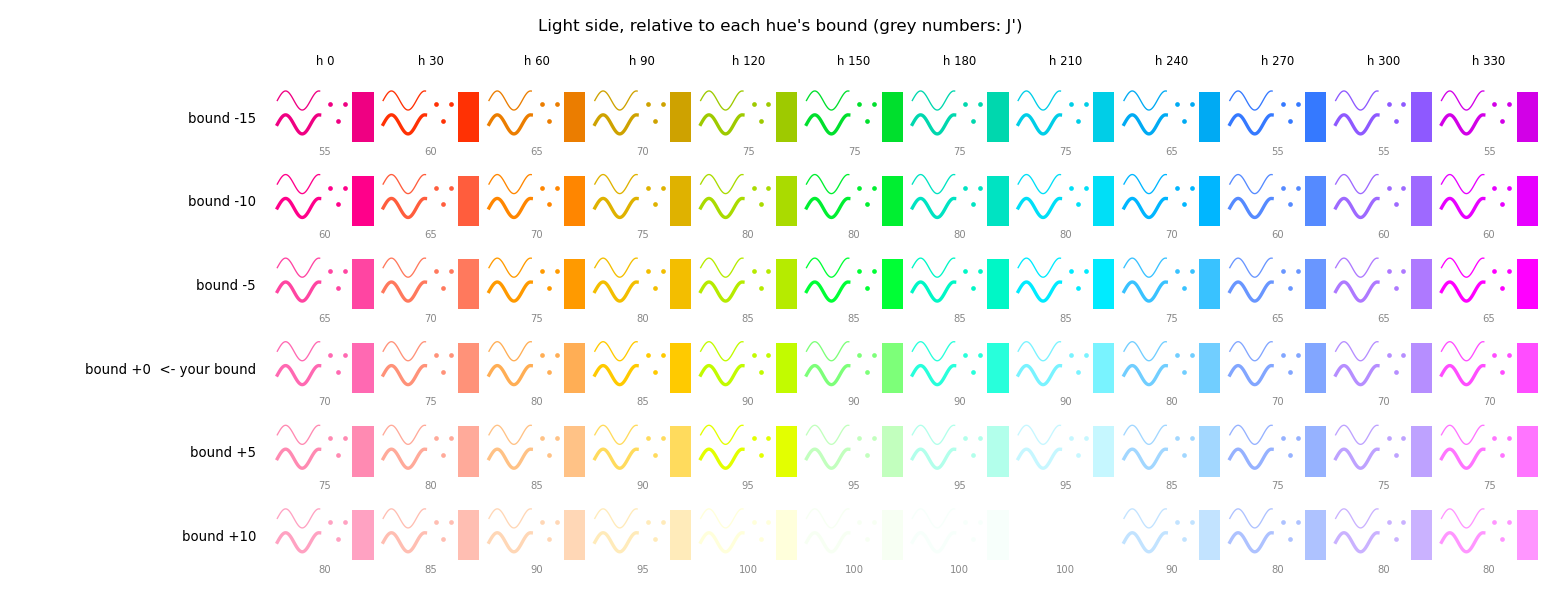
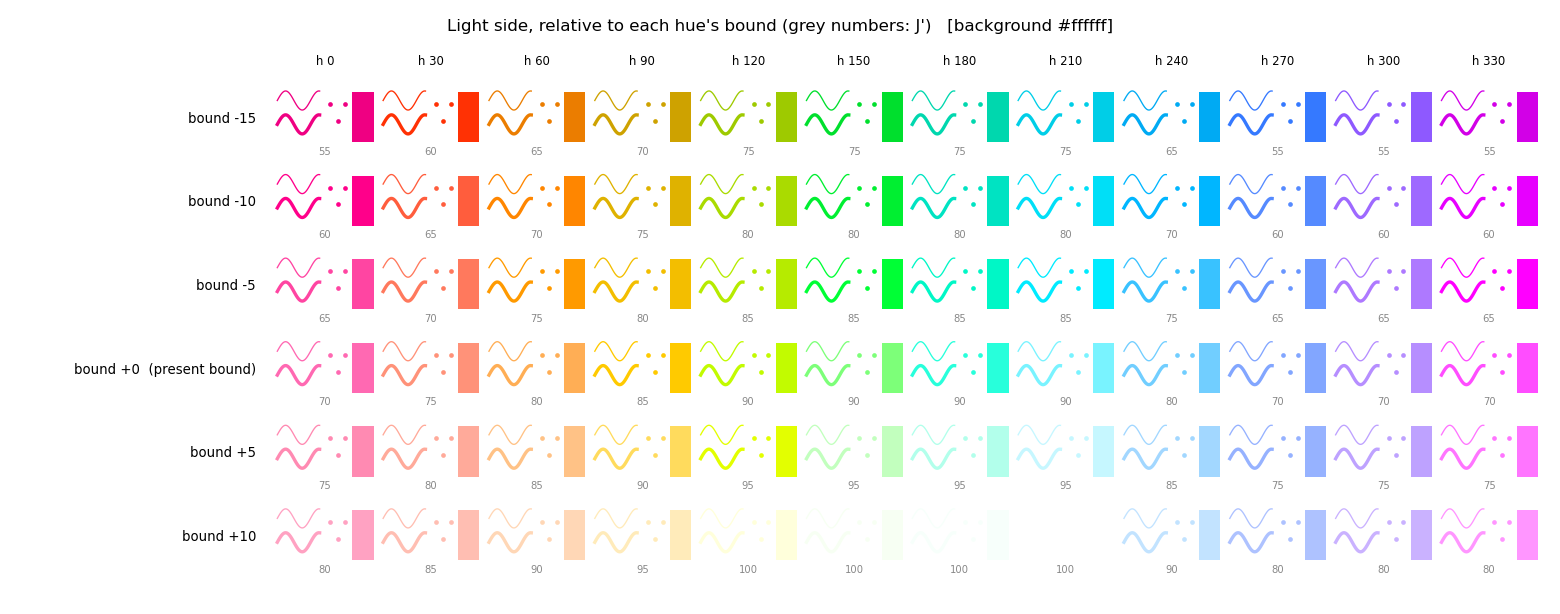
Compare MCCP with common palettes in the README, and keep to one voice
The README opens with ring discs of seven-colour palettes from MCCP,
tab10, petroff10, Okabe-Ito, Tol bright, Set1 and Dark2, in normal and
simulated colour-deficient vision, with the least colour difference of
each (tools/palette_rings.py).

The calibration chart no longer says "your bound", and the remaining
second-person and imperative sentences in the docs, docstrings and an
error message are made impersonal. The calibration chart in the docs is
redrawn with the new label.

Changed region(s): [[0.2769, 0.0309, 0.7077, 0.0619], [0.0308, 0.5879, 0.1846, 0.6189]]

diff --git a/tools/palette_rings.py b/tools/palette_rings.py
@@ -1,0 +1,105 @@
+"""Draw docs/img/rings_compare.png: MCCP beside common categorical palettes
+(petroff10 needs matplotlib 3.10 or later).
+
+Usage:
+
+    python tools/palette_rings.py [--n N] [--out PATH]
+
+Each palette of N colours (7 by default, the size of Okabe-Ito and Tol
+bright; longer palettes give their first N) is drawn as the ring disc of
+docs/test-figures.md, in normal vision and in simulated deutan, protan and
+tritan vision (Machado et al. 2009, at full severity), on white. Under each
+disc is the least colour difference between two colours of the palette for
+that observer, in CAM16-UCS with lightness weight 0.77, the measure that
+MCCP's sRGB mode maximises. The comparison therefore favours MCCP by
+construction; docs/results.md compares the palettes under other measures.
+"""
+
+import argparse
+import sys
+from pathlib import Path
+
+import numpy as np
+
+sys.path.insert(0, str(Path(__file__).resolve().parents[1]))
+
+import cmapkit  # noqa: E402
+from cmapkit.mccp.figures import draw_rings, ring_layout, simulate  # noqa: E402
+from cmapkit.space import Observer, Space, hex_to_rgb, viewing  # noqa: E402
+
+BACKGROUND = "#ffffff"
+OBSERVERS = [Observer(), Observer("deutan"), Observer("protan"), Observer("tritan")]
+
+
+def palettes(n):
+    import matplotlib
+    import matplotlib.style
+    from matplotlib.colors import to_hex
+
+    def cmap(name):
+        return [to_hex(c) for c in matplotlib.colormaps[name].colors]
+
+    out = {
+        "MCCP": cmapkit.palette(n, background=BACKGROUND).hex,
+        "tab10\n(matplotlib default)": cmap("tab10"),
+        "petroff10\n(matplotlib style)": list(
+            matplotlib.style.library["petroff10"]["axes.prop_cycle"].by_key()["color"]),
+        "Okabe-Ito": ["#e69f00", "#56b4e9", "#009e73", "#f0e442", "#0072b2", "#d55e00",
+                      "#cc79a7"],
+        "Tol bright": ["#4477aa", "#ee6677", "#228833", "#ccbb44", "#66ccee", "#aa3377",
+                       "#bbbbbb"],
+        "ColorBrewer\nSet1": cmap("Set1"),
+        "ColorBrewer\nDark2": cmap("Dark2"),
+    }
+    return {k: [c.lower() for c in v[:n]] for k, v in out.items() if len(v) >= n}
+
+
+def least_distance(hexes, observer):
+    u = Space(viewing("screen", BACKGROUND, lightness_weight=0.77), (observer,)).coords(
+        hex_to_rgb(hexes))[0]
+    d = np.linalg.norm(u[:, None] - u[None], axis=-1)
+    return float(d[np.triu_indices(len(u), 1)].min())
+
+
+def figure(n, path):
+    import matplotlib
+    matplotlib.use("Agg")
+    import matplotlib.pyplot as plt
+
+    pals = palettes(n)
+    view = Space(viewing("screen", BACKGROUND, lightness_weight=0.77))
+    fig, axes = plt.subplots(len(OBSERVERS), len(pals),
+                             figsize=(1.45 * len(pals) + 0.7, 1.75 * len(OBSERVERS) + 0.5))
+    fig.patch.set_facecolor(BACKGROUND)
+    for c, (name, hexes) in enumerate(pals.items()):
+        u = view.coords(hex_to_rgb(hexes))[0]
+        grid = ring_layout(np.linalg.norm(u[:, None] - u[None], axis=-1))
+        axes[0, c].set_title(name, fontsize=10, pad=8)
+        for r, obs in enumerate(OBSERVERS):
+            ax = axes[r, c]
+            draw_rings(ax, hexes if obs.kind == "normal" else simulate(hexes, obs), grid,
+                       BACKGROUND)
+            ax.set_xlabel(f"{least_distance(hexes, obs):.1f}", fontsize=9, labelpad=2)
+            if c == 0:
+                ax.set_ylabel(obs.kind, fontsize=10, labelpad=8)
+    fig.tight_layout(h_pad=0.6, w_pad=0.4)
+    fig.savefig(path, dpi=100, facecolor=BACKGROUND)
+    plt.close(fig)
+    return pals
+
+
+def main():
+    ap = argparse.ArgumentParser(description=__doc__.split("\n")[0])
+    ap.add_argument("--n", type=int, default=7)
+    ap.add_argument("--out", default=str(Path(__file__).resolve().parents[1]
+                                         / "docs/img/rings_compare.png"))
+    args = ap.parse_args()
+    pals = figure(args.n, args.out)
+    for name, hexes in pals.items():
+        print(name.replace("\n", " "), " ".join(f"{least_distance(hexes, o):5.1f}"
+                                                for o in OBSERVERS))
+    print("wrote", args.out)
+
+
+if __name__ == "__main__":
+    main()

diff --git a/cmapkit/mccp/optimise.py b/cmapkit/mccp/optimise.py
@@ -796,7 +796,7 @@ def palette(n, background=DEFAULT_BACKGROUND, anchors=None, radii=None, observer
         return Palette([], np.zeros((0, 3)), np.inf, np.inf, {})
     if order is not None and np.ptp(prob.radii) > 0:
         raise ValueError("order= would separate colours from their radii; "
-                         "order the series yourself when radii differ.")
+                         "when radii differ, the series must be put in order before the call.")
     if n == 1 and not len(prob.fixed_rgb):
         cand, uc, cap = _feasible_candidates(prob, candidate_grid(grid))
         rgb, log = cand[farthest_point(prob, uc, cap)], {}

diff --git a/cmapkit/mpl.py b/cmapkit/mpl.py
@@ -125,7 +125,7 @@ def recolor(target=None, artists=None, legend=True, strict=True, by_label=False,
     figure; series on all of them are coloured together, so that no two share
     a colour. Series are lines drawn in data coordinates and single-colour
     scatter plots, in the order they were added. Reference lines (axhline,
-    axvline) are left alone. Pass artists= to choose the series yourself.
+    axvline) are left alone. The series may instead be named with artists=.
 
     Error bars, bars, histograms, filled areas, box plots and colour-mapped
     scatter plots cannot be matched to one colour per series. With strict=True

diff --git a/cmapkit/calibrate.py b/cmapkit/calibrate.py
@@ -163,7 +163,7 @@ def bounds_page(bounds, side="high", offsets=None, background="#ffffff", text="#
         if toward_text:
             ax.plot(len(hues) + 0.05 + 0.4 * x, y + 0.05 + 0.08 * np.sin(8 * x), color=text,
                     lw=2.0)
-        mark = "  <- your bound" if off == 0 else ""
+        mark = "  (present bound)" if off == 0 else ""
         ax.text(-0.15, y, f"bound {off:+g}{mark}", ha="right", va="center", fontsize=8,
                 color=text)
     for k, hue in enumerate(hues):

diff --git a/README.md b/README.md
@@ -10,6 +10,24 @@ background of the plot. They are also kept apart for readers with the common
 deficiencies of colour vision, to a stated fraction of the separation that
 normal vision receives. cmapkit works with matplotlib.
 
+The first figure below compares a palette of seven colours from MCCP, on
+white, with six common palettes, of which the longer ones give their first
+seven colours. Each disc holds every colour of a palette once in each ring,
+arranged so that every pair of colours meets at least twice
+([docs/test-figures.md](docs/test-figures.md)). The rows show normal vision
+and simulated deutan, protan and tritan vision. The number under each disc is
+the least colour difference between two colours of the palette for that
+observer, in the measure that MCCP maximises, so that the comparison favours
+MCCP by construction; [docs/results.md](docs/results.md) compares the
+palettes under other measures. MCCP's colours are the most distinct for
+normal, deutan and protan vision. For tritan vision, to which it gives a
+lower priority (Section 3), its least difference of 12.7 is close to those
+of tab10 and Okabe–Ito and below the 21.2 of petroff10. The second figure
+shows the default palettes for N from 3 to 30. `tools/palette_rings.py` draws
+the first.
+
+![Palettes of seven colours on white, from MCCP and six common palettes, as ring discs in normal vision and in simulated deutan, protan and tritan vision, with the least colour difference under each](docs/img/rings_compare.png)
+
 ![Default palettes for N from 3 to 30 on white (left), and palettes for normal vision only (right)](docs/img/srgb_palettes.png)
 
 The second method, hdrmaps, is experimental. It gives long colour maps for
@@ -105,12 +123,12 @@ plt.imshow(hdr.scale(image, "sqrt"), cmap=cmap)
 ```
 
 `render` returns sRGB values in [0, 1], and in `details` the noise of the
-image, the blur applied in pixels (none unless `blur` is given) and the
-length of the map. A colour map from `colormap` is applied to the image
-after `scale`, which clips it at the 0.1 and 99.9 percentiles and takes its
-square root, as `render` does. Section 8 of
-[docs/hdrmaps.md](docs/hdrmaps.md) gives the other functions, and `tools/compare_images.py` compares two maps on
-an image.
+image, the blur applied in pixels (none unless `blur` is given) and the length
+of the map. A colour map from `colormap` is applied to the image after
+`scale`, which clips it at the 0.1 and 99.9 percentiles and takes its square
+root, as `render` does. Section 8 of [docs/hdrmaps.md](docs/hdrmaps.md) gives
+the other functions, and `tools/compare_images.py` compares two maps on an
+image.
 
 ## 3. Method
 
@@ -238,9 +256,9 @@ colours for normal vision, and `diagnostics`, which include:
 
 ## 7. Limitations
 
-- The lightness limits rest on one observer. They were measured on one
-  display in a wide-gamut mode and checked on two sRGB monitors. Backgrounds other than white, black and #333333 use
-  interpolated limits not checked by eye.
+- The lightness limits rest on one observer. They were measured on one display
+  in a wide-gamut mode and checked on two sRGB monitors. Backgrounds other
+  than white, black and #333333 use interpolated limits not checked by eye.
 - No measure of colour difference has been validated for differences as
   large as those between palette colours.
 - To keep colours distinct, MCCP admits colours of low luminance contrast

diff --git a/docs/results.md b/docs/results.md
@@ -205,23 +205,24 @@ luminance contrast with the background: on white, a least contrast ratio of
 1.25 to 1.37 at every N tested, against 2.0 to 2.5 for tab10.
 
 Computing a palette in the default mode takes from a few seconds at small N
-to one or two minutes at N = 50. Palettes with default settings are therefore precomputed for N from 1 to
-50 on the calibrated backgrounds.
+to one or two minutes at N = 50. Palettes with default settings are
+therefore precomputed for N from 1 to 50 on the calibrated backgrounds.
 
 ## 6. Next steps
 
 In order of cost:
 
-1. Calibrate a mid-grey background, with charts that find both edges of the
-   band around the background.
-2. Repeat the calibration with other observers and displays.
-3. Test distinct colour names (Heer and Stone 2012) as part of the measure of
-   difference, and ellipsoidal radii for different kinds of mark (Szafir
-   2018).
-4. Run a small study of readers. About 10 to 20 people would match thin
-   lines and small markers to legend entries at N = 8 and 16, using palettes
-   from MCCP, glasbey, Qualpal and tab10. Record errors, time and preference.
-   Only such a study can show whether the larger separations matter.
+1. Calibration of a mid-grey background, with charts that find both edges
+   of the band around the background.
+2. Repetition of the calibration with other observers and displays.
+3. Tests of distinct colour names (Heer and Stone 2012) as part of the
+   measure of difference, and of ellipsoidal radii for different kinds of
+   mark (Szafir 2018).
+4. A small study of readers. About 10 to 20 people would match thin lines
+   and small markers to legend entries at N = 8 and 16, using palettes from
+   MCCP, glasbey, Qualpal and tab10, with errors, time and preference
+   recorded. Only such a study can show whether the larger separations
+   matter.
 
 ## References
 

diff --git a/docs/calibration.md b/docs/calibration.md
@@ -104,7 +104,7 @@ lightness_page("high", background="#ffffff", text="#000000", path="light.png")
 lightness_page("low", background="#ffffff", text="#000000", path="dark.png")
 ```
 
-Judge each chart as in Section 2, one row per column, using the full rows.
+Each chart is judged as in Section 2, one row per column, using the full rows.
 The values form a `cmapkit.bounds.HueBounds` table. There is at present no
 argument for supplying a calibration: adding one means editing `SRGB_BOUNDS`
 and `bounds_for` in `cmapkit/bounds.py`, which combines the tables for white,

diff --git a/docs/cam16-reference.md b/docs/cam16-reference.md
@@ -5,7 +5,7 @@ CAT16, and CAM16-UCS*, Color Res. Appl. 42(6):703–718, Appendix A Part 1 and
 Appendix B. The transcription was made by an AI system (see the README,
 Section 9) from the published paper. An implementation written from it
 reproduces the test vector at the end of this note to every printed digit.
-Check it against the paper before relying on any constant.
+It should be checked against the paper before any constant is relied on.
 
 ## Inputs
 
